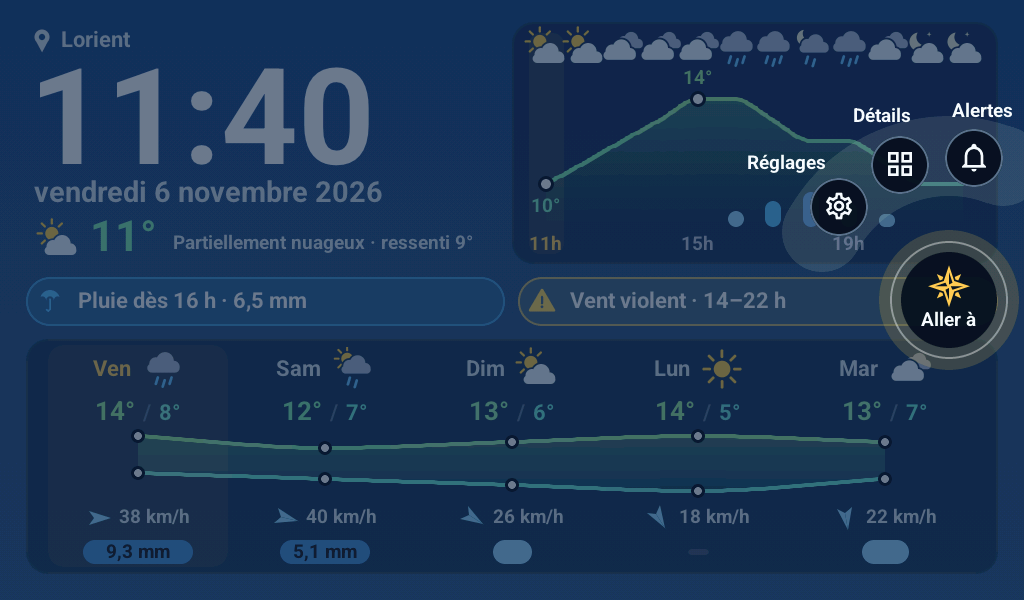
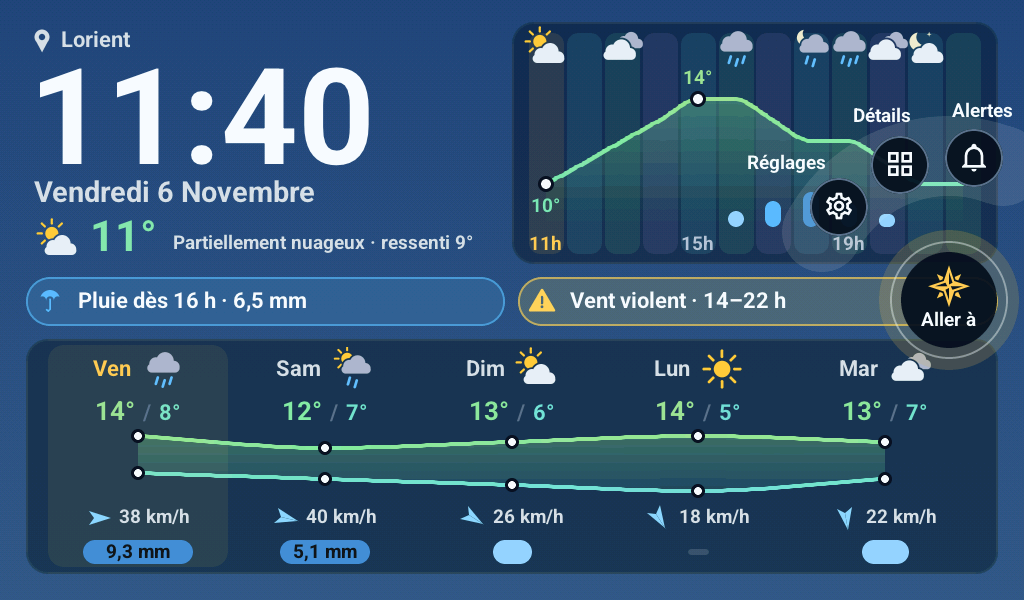
fix(roue): plus de voile derrière la roue d'appui long
La roue posait derrière elle un rectangle plein écran à 150/255 (couleur de fond du
thème) que l'auteur a trouvé trop long à s'afficher (retour d'Axel après essai de la
roue du Tab5 sous ESPHome, 09/11/2026). Il n'est plus dessiné : OPA_VOILE est supprimée
de main/ui_roue.cpp, seule la roue est dessinée, sur l'accueil tel qu'il est. L'objet
reste plein écran, cliquable et sans fond, seulement pour recevoir les touchers (un
toucher hors des boutons replie ou ferme la roue, comme avant). Bandes de verre,
boutons, moyeu, mots, minuteur et géométrie : inchangés.

Banc de rendu (scène roue, 1280x720 et 1024x600) : hors du cadre de la roue, le rendu
est identique pixel pour pixel à l'accueil seul (0 pixel de différence ; les 17 autres
rendus de l'accueil en diffèrent de 1 304 à 772 548 pixels). Les dix captures suivies de
la roue sont refaites. ADR-0021 : mise à jour ; docs/mesures/roue.md : § 6.

La 7B compile et lie (ESP-IDF 5.5.5, 95 s). La vitesse d'apparition n'est pas mesurée :
si elle reste lente, le premier suspect est le repeint de tout l'accueil sous l'objet
plein écran (piste non essayée, décrite dans l'ADR).

Carte: aucune
Teste-sur: non testé sur carte (rendus du PC, 1280x720 et 1024x600, compilation 7B, 09/11/2026)

diff --git a/main/ui_roue.cpp b/main/ui_roue.cpp
@@ -24,7 +24,6 @@ using roue::Point;
 // (vu à la compilation de la 7B, 08/11/2026) ; copier une constante n'a pas de temporaire à poser.
 const roue::Anneau ANNEAU_VIDE = {};
 
-constexpr std::uint8_t OPA_VOILE = 150; // le voile sur l'écran principal (couleur : fond du thème)
 constexpr std::uint8_t OPA_BANDE =
     36; // la bande de verre sous chaque anneau (couleur : texte du thème au premier anneau, accent au second ; très transparente)
 constexpr std::uint8_t OPA_DISQUE = 240; // le disque d'un bouton
@@ -42,6 +41,8 @@ constexpr const char *MOT_MOYEU = "Aller à";                 // la clé frança
 
 struct Etat {
     bool ouverte = false;
+    // L'objet plein écran de la roue : SANS fond depuis le 09/11/2026 (il ne dessine que la roue et reçoit les touchers). Son nom date du
+    // voile qu'il posait sur l'écran principal avant ; il est gardé tel quel pour ne pas toucher aux lignes d'autres branches.
     lv_obj_t *voile = nullptr;
     lv_timer_t *minuteur = nullptr;
     const visuel::ThemePrincipal *theme = nullptr;
@@ -228,7 +229,8 @@ void dessiner(lv_event_t *evenement) {
     lv_layer_t *couche = lv_event_get_layer(evenement);
     const dz::Pinceau pc = {couche, g.theme};
     const visuel::ThemePrincipal &t = *g.theme;
-    dz::rect(pc, 0, 0, g.largeur, g.hauteur, 0, t.fond, OPA_VOILE);
+    // Pas de voile sur l'écran principal (retiré le 09/11/2026, demande d'Axel : il mettait trop de temps à s'afficher) : seule la roue est
+    // dessinée, sur l'accueil tel qu'il est. L'objet reste plein écran et cliquable : un toucher hors de la roue la referme.
     bande(pc, g.roue.premier, g.m.rayon_1, g.m.diametre_1, t.texte);
     for (int i = 0; i < g.roue.premier.n; ++i) {
         dessiner_bouton(pc, g.roue.premier.bouton[i], g.entrees[i].icone, g.sous == i && !g.sous_second, g.famille == i,

diff --git a/main/ui_roue.h b/main/ui_roue.h
@@ -4,8 +4,8 @@
 //
 // LVGL PUR (contrat d'interface n° 3) : aucun en-tête ESP-IDF, le banc de rendu PC (tools/rendu) compile ce fichier tel quel.
 //
-// Un seul objet LVGL : le voile plein écran, posé sur la couche supérieure, qui dessine tout (disques, anneaux, mots, icônes) dans son
-// événement DRAW_MAIN et reçoit les touchers. Toutes les positions et les zones tactiles viennent de `ecran::roue` (roue_geometrie.hpp),
+// Un seul objet LVGL : un objet plein écran SANS fond (aucun voile sur l'écran principal depuis le 09/11/2026), posé sur la couche
+// supérieure, qui dessine tout (disques, anneaux, mots, icônes) dans son événement DRAW_MAIN et reçoit les touchers. Toutes les positions et les zones tactiles viennent de `ecran::roue` (roue_geometrie.hpp),
 // jamais recalculées ici ; ce qu'un toucher décide vient de `roue_commande.hpp` (testé sur le PC). Aucune animation : la roue
 // apparaît, se replie ou se ferme d'un coup. Les objets sont créés à l'ouverture et détruits à la fermeture ; les polices (Roboto et le
 // sous-ensemble d'icônes mdi_roue.ttf, en PSRAM) sont gardées d'une ouverture à l'autre.
@@ -62,7 +62,7 @@ struct ContexteRoue {
 // argument est invalide ou si une police n'a pas pu être créée. À appeler dans la tâche LVGL, verrou pris.
 bool ui_roue_ouvrir(const ContexteRoue &ctx, const EntreeRoue *entrees, int n, int32_t x, int32_t y);
 
-// Ferme la roue (le voile est supprimé au passage suivant du minuteur de LVGL). Sans effet si elle est fermée.
+// Ferme la roue (son objet est supprimé au passage suivant du minuteur de LVGL). Sans effet si elle est fermée.
 void ui_roue_fermer();
 
 bool ui_roue_ouverte();

diff --git a/docs/mesures/roue.md b/docs/mesures/roue.md
@@ -11,7 +11,7 @@ Branche `claude/roue-lvgl-6352a9` (tirée de `main` au commit `4dd7b2c`). Règle
 
 ## 1. Ce que la roue coûte
 
-- **Objets LVGL** : roue **fermée 0, ouverte 1** (le voile plein écran qui dessine tout), lu dans `ui_roue_cout()` (`main/ui_roue.cpp`) et écrit dans le journal du banc à chaque rendu. La roue du Tab5 en pose **64** (`tab5_roue.h:37-52`, comptés à l'ADR-0017). **L'écran principal passe de 10 à 9 objets** (le bouton Réglages disparaît), lu dans `ui_principal_cout()`.
+- **Objets LVGL** : roue **fermée 0, ouverte 1** (l'objet plein écran, sans fond depuis le 09/11/2026, qui dessine tout), lu dans `ui_roue_cout()` (`main/ui_roue.cpp`) et écrit dans le journal du banc à chaque rendu. La roue du Tab5 en pose **64** (`tab5_roue.h:37-52`, comptés à l'ADR-0017). **L'écran principal passe de 10 à 9 objets** (le bouton Réglages disparaît), lu dans `ui_principal_cout()`.
 - **Minuteurs** : 1 quand la roue est ouverte (la fermeture après 15 s sans toucher), 0 fermée.
 - **Polices** : 3 TinyTTF (mot 24 px, icône 40 px, moyeu 52 px de référence, mises à l'échelle de l'écran), en PSRAM, créées à la première ouverture et gardées. **Non mesuré** : la mémoire de leurs glyphes en cache.
 - **RAM statique** : l'état de la roue pèse **1 436 octets** dans le firmware (section `.data._ZN5ecran12_GLOBAL__N_11gE` de `ui_roue.cpp.obj`, `riscv32-esp-elf-size -A`, 7B) ; son `sizeof` sur le PC est **2 192 octets** (pointeurs de 8 octets au lieu de 4), c'est ce que `ui_roue_cout().ram_statique` écrit dans le journal du banc : **ne pas le lire comme la valeur de la carte**. Plus une constante `ANNEAU_VIDE` en lecture seule. `.bss` de l'objet : 1 octet.
@@ -58,7 +58,7 @@ LVGL 9.5.0, dessin logiciel, RGB565, clang. `.\tools\rendre.ps1 -Scene roue -Tai
 
 **Comparé aux cibles** (`roue-finale.png`, `roue-sans-mer.png`, `roue-affichage.png`, `roue-vignettes.png` de l'esquisse du Tab5) :
 
-1. Même composition : voile sombre sur l'accueil, bande de verre sous chaque anneau, boutons ronds sombres à bord clair, icône blanche, mot blanc en gras à côté du bouton (côté choisi par la géométrie), moyeu au centre avec un anneau clair et un halo, point blanc sur un bouton de famille.
+1. Même composition, **sauf le voile sombre de la cible, retiré le 09/11/2026** (§ 6) : bande de verre sous chaque anneau, boutons ronds sombres à bord clair, icône blanche, mot blanc en gras à côté du bouton (côté choisi par la géométrie), moyeu au centre avec un anneau clair et un halo, point blanc sur un bouton de famille.
 2. **Le premier anneau n'a que trois boutons** (Réglages, Détails, Alertes ; deux sans alertes) : la bande de verre est donc **courte et arrondie** (une gélule), pas l'arc de six boutons de la cible. Les boutons suivent l'arc autour du moyeu : celui du milieu (« Détails ») et son mot sont les plus éloignés du moyeu.
 3. Le moyeu porte la rose des vents en **couleur d'accent du thème** (or sur les thèmes d'Axel) ; la cible l'a en cyan. Le halo est un disque translucide plat, **pas un flou**.
 4. **Quatre glyphes seulement** (roue dentée, cloche, grille de tuiles, rose des vents) : la cible a une icône par entrée (Profil, Affichage, Pages, Assistant, Décision, Bureau...). Dans les scènes à famille, ces glyphes sont **répétés** (données d'essai) : un « Profil » avec une rose des vents n'est pas le produit. La grille de tuiles de « Détails » se reconnaît nettement sur le fond sombre ; qu'elle dise « les sept grandeurs » est un jugement pour l'écran réel.
@@ -71,3 +71,15 @@ LVGL 9.5.0, dessin logiciel, RGB565, clang. `.\tools\rendre.ps1 -Scene roue -Tai
 Le banc envoie `LV_EVENT_LONG_PRESSED` à l'écran principal réel (`ui_principal`) et un rappel qui rejoue le câblage de `ecran_principal.cpp` (le fichier lui-même ne tourne pas sur le PC) : appui long → la roue s'ouvre (1 objet LVGL) → toucher « Réglages » → les réglages s'ouvrent exactement une fois, la roue est fermée (0 objet) ; idem « Alertes » ; toucher à vide → la roue se ferme, rien ne s'ouvre ; une quatrième ouverture puis fermeture ne laisse aucun objet ; famille dépliée → toucher un choix → son action une fois, et « Réglages » reste atteignable famille dépliée. **« Détails »** (`parcours-details`) : appui long → la roue → toucher « Détails » → la page Détails est l'écran actif, ouverte exactement une fois, la roue fermée (0 objet) ; « Fermer » (un `LV_EVENT_CLICKED` envoyé à son seul objet cliquable, pas un toucher) ramène à l'accueil et supprime la page ; la roue se rouvre et « Réglages » s'ouvre une fois. La colle de l'appareil (`ui_details_ouvrir.cpp`) **ne tourne pas** sur le PC : le banc rejoue ses appels (écran neuf, `ui_details_creer`, écran précédent gardé, chargement ; « Fermer » recharge le précédent), la page elle-même (`ui_details.cpp`) est celle de l'appareil ; le vrai rappel et la vraie zone tactile de « Fermer » ne sont **pas constatés**. **Le diagnostic** : le parcours `diagnostic-depuis-les-reglages` constate que la ligne « Diagnostic » est dans Réglages > Appareil, qu'elle se touche et qu'elle demande l'écran de diagnostic une fois ; l'écran de diagnostic et son retour **ne tournent pas sur le banc** : non vérifiés. Le point d'appui du banc est (0, 0) (pas de doigt) : l'ouverture **au point réel du doigt** n'est pas constatée.
 
 **Vu sur :** banc de rendu du PC (clang 23.1.5, LVGL 9.5.0), ESP-IDF 5.5.5 pour la compilation, branche `claude/roue-lvgl-6352a9`, 08/11/2026. **Aucune carte** : le dessin sur le panneau (Tab5 ST7121, ST7123, ILI9881C, Waveshare 7B), l'ouverture sous un vrai doigt, le seuil de glissement, la lisibilité à 2 m, la vitesse et la RAM libre en marche ne sont **pas constatés**.
+
+## 6. Mise à jour du 09/11/2026 : plus de voile derrière la roue
+
+Axel a trouvé que le fond translucide posé derrière la roue mettait trop de temps à s'afficher et a demandé de ne garder que la roue sur la page classique ([ADR-0021](../decisions/0021-roue-d-appui-long-sur-l-ecran-principal.md), « Mise à jour »).
+
+- **Ce qui change** : `dessiner()` (`main/ui_roue.cpp`) ne pose plus le rectangle plein écran (couleur de fond du thème, 150/255) avant la roue ; la constante `OPA_VOILE` est supprimée. L'objet LVGL reste plein écran, cliquable et sans fond : même nombre d'objets (1 ouverte, 0 fermée), mêmes touchers (un toucher hors des boutons, du moyeu et des bandes replie ou ferme la roue). Bandes de verre, boutons, moyeu, mots, minuteur de 15 s et géométrie : inchangés.
+- **Constaté sur le banc** (scène `roue`, 1280 × 720 et 1024 × 600, 21 PNG par taille ; le banc sort en code 0, donc ses parcours simulés passent, dont « toucher à vide → la roue se ferme ») : la roue est dessinée sur l'accueil à pleine luminosité. **Hors du cadre de la roue (x 440 à 840, y 255 à 620 à 1280 × 720), `roue-centre-1280x720.png` est identique pixel pour pixel à l'accueil seul** (`principal-esquisse-1280x720.png` du même banc : 0 pixel de différence) ; les 17 autres rendus de l'accueil en diffèrent de 1 304 à 772 548 pixels, ce qui montre que la comparaison voit les écarts. Les dix captures suivies `docs/captures/ecran/roue-*.png` sont refaites ; elles montrent aussi les changements d'accueil fusionnés depuis leur dernier rendu (date en majuscules, colonnes de la carte des heures).
+- **Compilation** : la 7B compile et lie (ESP-IDF 5.5.5, `-DBOARD=waveshare-7b`, 95 s, `meridien.bin` 3 073 600 octets, sans `warning:` ni `error:` dans le journal, sans identifiants Wi-Fi). Cela ne prouve pas que la roue marche.
+- **Non constaté** : le temps d'apparition de la roue sur une carte, avant comme après (jamais mesuré), et le toucher hors de la roue sous un vrai doigt.
+- **Vu sur** : banc de rendu du PC (clang 23.1.5, LVGL 9.5.0), ESP-IDF 5.5.5 pour la compilation, branche `claude/roue-sans-voile` tirée de `main` au commit `332ccab`, 09/11/2026. **Aucune carte.**
+- **Piste restante, non essayée** : l'objet plein écran invalide tout l'écran à l'ouverture et à la fermeture, donc LVGL repeint l'accueil entier sous la roue. Si l'ouverture reste lente sur la carte, c'est le premier suspect (limiter l'invalidation à la zone de la roue) ; à mesurer sur la carte avant de changer quoi que ce soit.
+- **Les captures `auto-roue-profil-*` de la PR n° 16** (roue avec « Profil », pas encore fusionnée) montrent encore l'ancien voile : à refaire après sa fusion avec ce changement.

diff --git a/docs/decisions/0021-roue-d-appui-long-sur-l-ecran-principal.md b/docs/decisions/0021-roue-d-appui-long-sur-l-ecran-principal.md
@@ -2,7 +2,8 @@
 
 > **English summary.** A long press on the main screen now opens the **press-and-hold wheel** at the finger (it used to open the
 > diagnostic screen), and the round **Settings button leaves the home screen**. The wheel is drawn by **one LVGL object** (a full-screen
-> veil on the top layer that draws the discs, rings, words and icons in its own draw event and receives the touches), created on
+> object with no background on the top layer, **no dimming veil since 2026-11-09** (see « Mise à jour »), that draws the discs, rings,
+> words and icons in its own draw event and receives the touches), created on
 > opening and deleted on closing, **no animation** (the Tab5 builds 64 objects for the same wheel, ADR-0017). Every position and every
 > touch zone comes from `ecran::roue` (ADR-0017, **not modified**); what a touch does (choose, unfold, fold, close, nothing on a slide)
 > is decided by the new pure module `ecran/roue_commande.hpp`, tested on the PC with mutation tests. The **first ring holds only
@@ -14,10 +15,11 @@
 > (LVGL 9.5.0, 1280 x 720 and 1024 x 600), **never run on a board**.
 
 - **Statut** : **proposée**, écrite le 08/11/2026 ; à valider par Axel. **Constaté** : sur le PC, les tests du noyau (mode « complet », AddressSanitizer et UBSan), les mutations, les rendus du banc (LVGL 9.5.0) en 1280 × 720 et 1024 × 600, et des parcours tactiles simulés (appui long → roue → Réglages, Alertes, toucher à vide, famille) ; la compilation des deux cartes (voir « Preuves »). **Non constaté** : tout ce qui dépend du panneau et du doigt (voir « À prouver sur une carte »).
+- **Mise à jour (09/11/2026, plus de voile)** : Axel, en essayant la roue du Tab5 sous ESPHome, a trouvé que le fond translucide posé derrière elle met trop de temps à s'afficher ; il a demandé de le retirer et de ne garder que la roue sur la page classique, ici aussi. **Le rectangle plein écran à 150/255 (couleur de fond du thème) n'est plus dessiné** (`OPA_VOILE` supprimée de `main/ui_roue.cpp`). L'objet reste plein écran et cliquable, sans fond, seulement pour recevoir les touchers : un toucher hors des boutons, du moyeu et des bandes referme la roue, comme avant. Bandes de verre, boutons, moyeu, mots, minuteur de 15 s et géométrie : inchangés. **Le « voile sombre » de la cible `roue-finale.png` n'est donc plus reproduit.** **Constaté sur le PC** : hors du cadre de la roue, le rendu est identique pixel pour pixel à l'accueil seul (voir `docs/mesures/roue.md` § 6). **Non constaté** : que la roue apparaisse plus vite sur une carte (jamais mesuré, aucune carte flashée). **Piste restante, non essayée** : l'objet plein écran invalide tout l'écran à l'ouverture et à la fermeture, donc LVGL repeint l'accueil entier sous la roue ; si l'ouverture reste lente sur la carte, c'est le premier suspect (limiter l'invalidation à la zone de la roue), à mesurer avant de changer quoi que ce soit.
 - **Numéro** : 0021. Les numéros 0018 et 0019 sont pris par les ADR du lot mer (branches `claude/mer-noyau` et `claude/mer-client`), 0020 par la page des détails (PR 9) ; les messages des premiers commits de cette branche disent encore « ADR-0019 » : lire ADR-0021.
 - **Contexte** : troisième lot du nouvel écran d'accueil (plan du 08/11/2026). [ADR-0017](0017-roue-d-appui-long-geometrie-pure.md) a porté la **géométrie** de la roue du Tab5 dans le noyau pur ; ce lot la **dessine** et la branche sur l'écran principal. Avant lui, un appui long sur l'accueil ouvrait l'écran de diagnostic et les réglages s'ouvraient par un bouton rond en haut à droite de la zone du lieu ([ADR-0007](0007-reglages-a-l-ecran-et-installation-guidee.md)).
 - **Décision** :
-  1. **Un seul objet LVGL pour toute la roue** (`main/ui_roue.cpp`). Un voile plein écran sur la couche supérieure (`lv_display_get_layer_top`) dessine disques, bandes de verre, anneaux, mots et icônes dans son événement `LV_EVENT_DRAW_MAIN`, avec les mêmes aides que l'écran principal (`ui_meteo_dessin.h`), et reçoit les touchers. Créé à l'ouverture, supprimé (`lv_obj_delete_async`) à la fermeture ; **aucune animation**. Trois polices TinyTTF (mot 24 px, icône 40 px, moyeu 52 px de référence, mises à l'échelle de l'écran) sont créées à la première ouverture et gardées en PSRAM. Le fichier est « LVGL PUR » (aucun include ESP-IDF) : le banc de rendu du PC le compile tel quel.
+  1. **Un seul objet LVGL pour toute la roue** (`main/ui_roue.cpp`). Un objet plein écran sans fond (le voile d'origine est retiré depuis le 09/11/2026, voir « Mise à jour ») sur la couche supérieure (`lv_display_get_layer_top`) dessine disques, bandes de verre, anneaux, mots et icônes dans son événement `LV_EVENT_DRAW_MAIN`, avec les mêmes aides que l'écran principal (`ui_meteo_dessin.h`), et reçoit les touchers. Créé à l'ouverture, supprimé (`lv_obj_delete_async`) à la fermeture ; **aucune animation**. Trois polices TinyTTF (mot 24 px, icône 40 px, moyeu 52 px de référence, mises à l'échelle de l'écran) sont créées à la première ouverture et gardées en PSRAM. Le fichier est « LVGL PUR » (aucun include ESP-IDF) : le banc de rendu du PC le compile tel quel.
   2. **Aucune géométrie recalculée.** Positions, zones tactiles, mots et dépliement viennent de `ecran::roue` (`ouvrir`, `deplier`, `deplier_famille`, `bouton_sous`) ; `roue_geometrie.hpp` n'est **pas modifié**. Ce que fait un toucher vient de `components/core/include/ecran/roue_commande.hpp` (nouveau, pur, sans LVGL) : l'échelle de la roue d'après la taille de l'écran (7B : 800 ‰, Tab5 : 1000 ‰), le seuil de glissement (24 px du Tab5 mis à l'échelle), la demande faite à `ouvrir`, et `decider(...)` qui rend `Rien`, `Fermer`, `Replier`, `Deplier`, `Choisir` ou `ChoisirChoix`. Les angles de la géométrie sont lus comme elle les écrit (voir `docs/depannage.md`, « bande de verre à l'envers »).
   3. **La roue s'ouvre au point d'appui.** Un appui long sur l'écran principal appelle `ui_principal_sur_appui_long(x, y)` avec le point où le doigt est ; s'il a glissé de plus du seuil depuis qu'il s'est posé, ce n'est pas un appui long et rien ne s'ouvre. Le doigt encore posé après l'ouverture : son relever est ignoré (comme au Tab5) ; la roue ne répond qu'aux touchers **nouveaux** (toucher un bouton, toucher le moyeu, toucher à vide pour fermer). Glisser sur la roue ne fait rien (ADR-0036 du dépôt Tab5). Une roue laissée ouverte se ferme seule après 15 s sans toucher. La pastille de l'alerte officielle reste (ses événements ne remontent pas à l'écran : pas d'appui long dessus, comme avant).
   4. **Premier anneau : « Réglages », « Détails » et, si la page des alertes existe, « Alertes ». Rien d'autre** (ni Profil, ni Affichage, ni Assistant). « Détails » (`ui_details_ouvrir()`, la page des sept grandeurs, [ADR-0020](0020-page-details-sept-grandeurs.md)) est un **bouton direct, pas une famille** (il n'y a qu'une page) : décision d'Axel relayée le 08/11/2026, « les sept tuiles de grandeurs sont accessibles par la roue ». L'ordre est Réglages, Détails, Alertes : les deux premiers boutons ne bougent pas quand la page des alertes apparaît ou disparaît. La page des alertes « existe » à la même condition que la pastille : alertes activées, heure sûre, une réponse de Vigie en mémoire. **Pour ajouter une entrée** : **une ligne** dans `composer_entrees` (`main/ecran_principal.cpp`) et son glyphe dans `tools/icones/roue_glyphes.json` (puis `python tools/icones/generer_police_roue.py`, voir `docs/outils.md`) ; c'est ainsi qu'a été ajouté « Détails ». Son glyphe (MDI `view-grid-outline`, une grille de tuiles) est un choix à juger sur l'écran. Une entrée peut porter une famille (`choix`, `nb_choix`) : le second anneau est prêt, aucune famille n'existe aujourd'hui.

diff --git a/changelog.d/claude-roue-sans-voile.md b/changelog.d/claude-roue-sans-voile.md
@@ -1,0 +1,3 @@
+### Changed
+
+- **Press-and-hold wheel without a veil**: the wheel no longer dims the screen behind it. The full-screen translucent layer (59 % of the theme's background colour) took too long to appear, according to the author; only the wheel is drawn now, on the home page as it is. A touch outside the buttons still folds the second ring or closes the wheel. *La roue d'appui long ne ternit plus l'écran derrière elle : seule la roue est dessinée, sur l'accueil tel qu'il est.* ([ADR-0021](../docs/decisions/0021-roue-d-appui-long-sur-l-ecran-principal.md), [measurements](../docs/mesures/roue.md)) Seen on: the PC render bench only (outside the wheel the render is identical, pixel for pixel, to the home page without it); not tested on board, so the speed gain is not measured.
